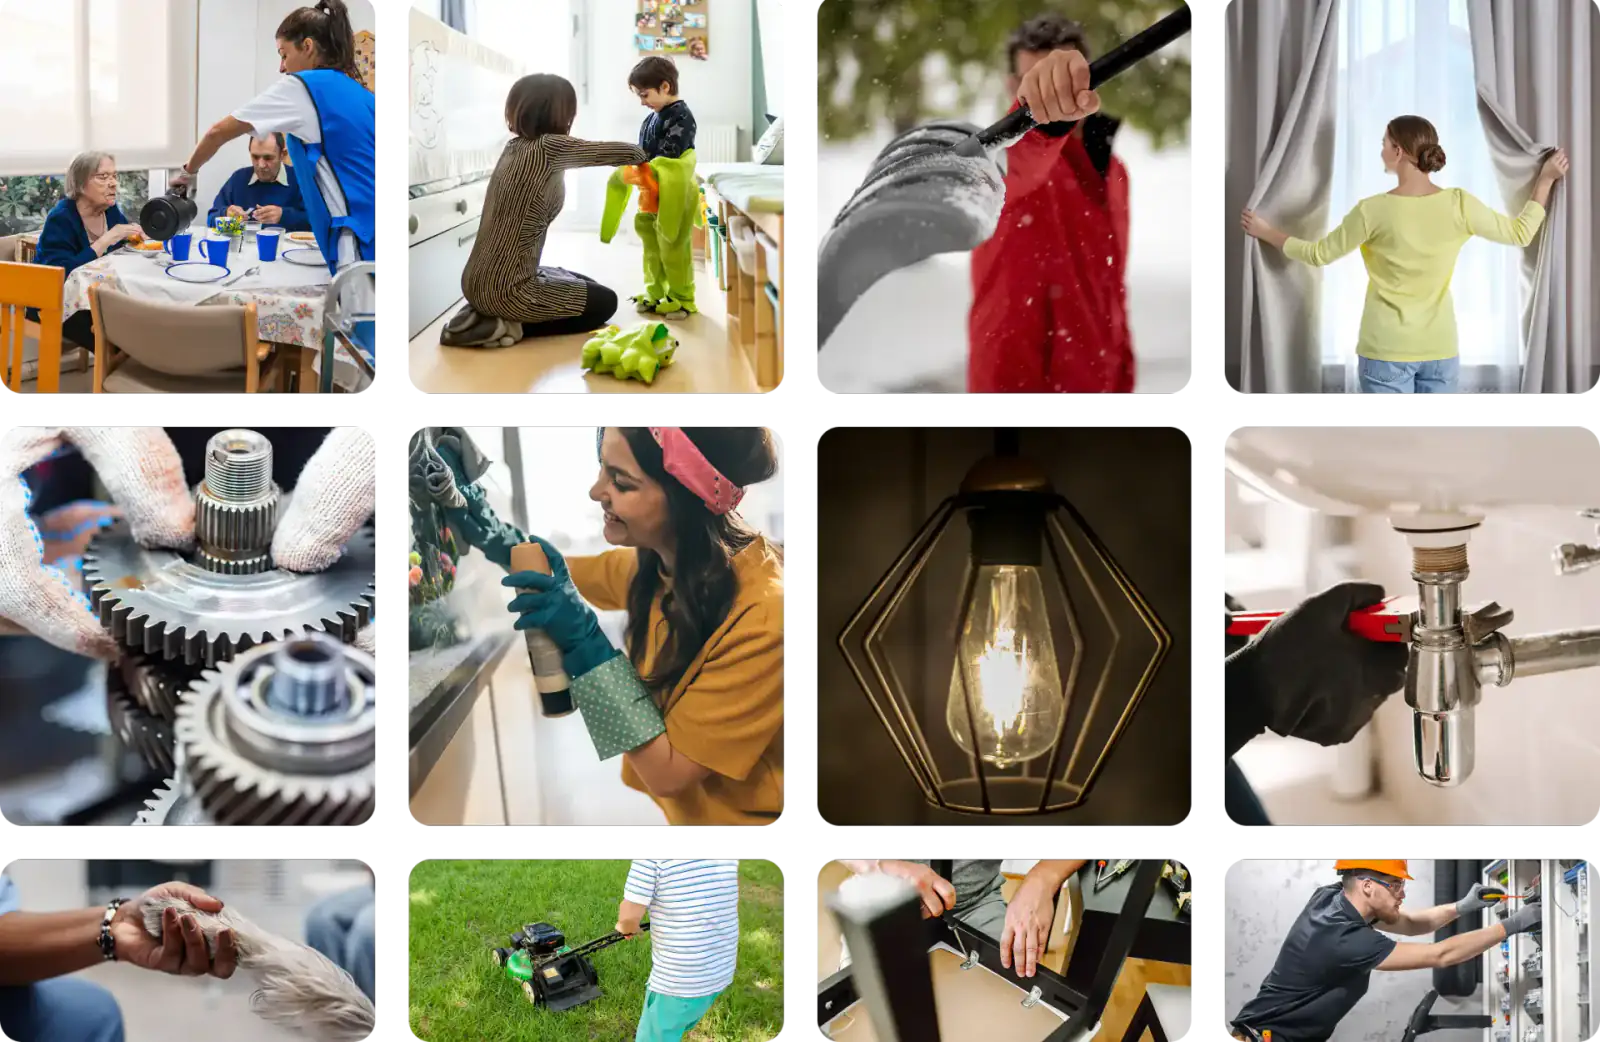
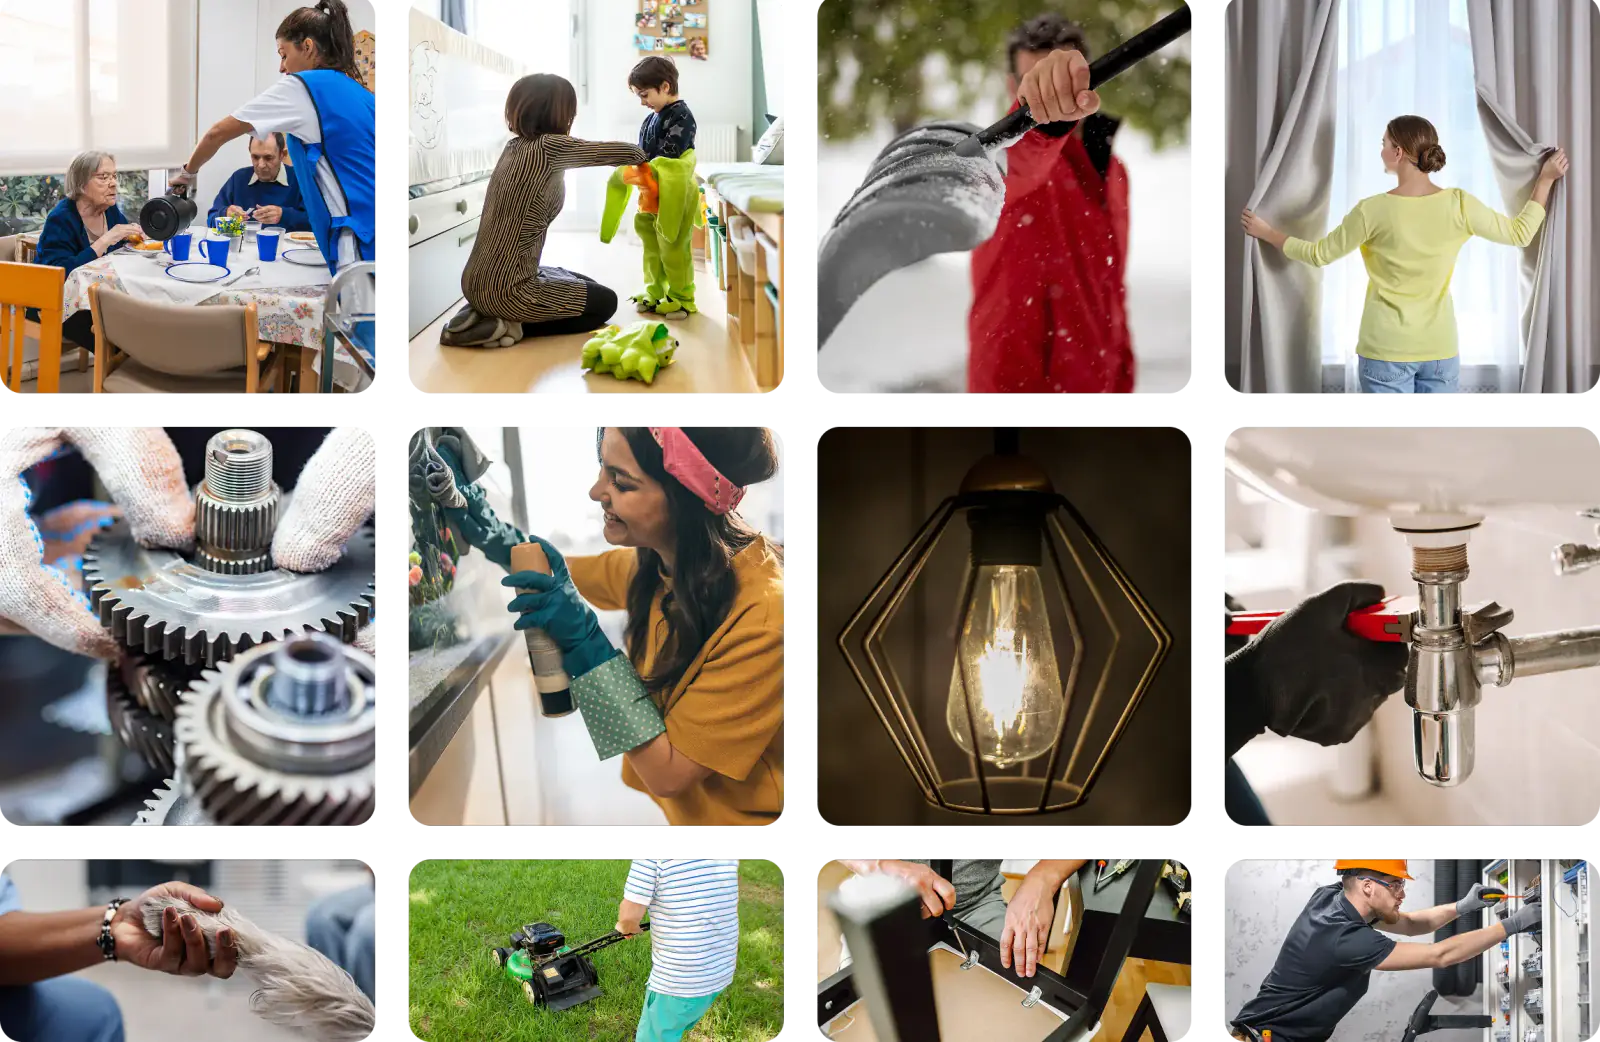
perf: restore hero_bg q=72 quality, dynamic imports for FAQ/Contact
- hero_bg q=65→q=72 (better visual quality)
- FAQ and Contact lazy-loaded (~20 KB initial JS savings)
- optimizePackageImports for lucide-react and radix-ui
- Update favicon set and metadata for Blumu branding

diff --git a/app/page.tsx b/app/page.tsx
@@ -9,12 +9,18 @@ import { Hero } from "@/components/sections/Hero";
 import { Pricing } from "@/components/sections/Pricing";
 import { images } from "@/lib/image-paths";
 
-const FAQ = dynamic(() =>
-  import("@/components/sections/FAQ").then((mod) => mod.FAQ),
+const FAQ = dynamic(
+  () => import("@/components/sections/FAQ").then((mod) => mod.FAQ),
+  {
+    loading: () => <div style={{ minHeight: "700px" }} />,
+  },
 );
 
-const Contact = dynamic(() =>
-  import("@/components/sections/Contact").then((mod) => mod.Contact),
+const Contact = dynamic(
+  () => import("@/components/sections/Contact").then((mod) => mod.Contact),
+  {
+    loading: () => <div style={{ minHeight: "500px" }} />,
+  },
 );
 
 export default function HomePage() {

diff --git a/app/layout.tsx b/app/layout.tsx
@@ -21,6 +21,23 @@ export const metadata: Metadata = {
   title: "Blumu — paslaugų marketplace",
   description:
     "Blumu — Lietuvos paslaugų marketplace. Rask patikimus vykdytojus arba augink savo verslą.",
+  icons: {
+    icon: [
+      { url: "/images/favicon/favicon.ico" },
+      {
+        url: "/images/favicon/favicon-16x16.png",
+        sizes: "16x16",
+        type: "image/png",
+      },
+      {
+        url: "/images/favicon/favicon-32x32.png",
+        sizes: "32x32",
+        type: "image/png",
+      },
+    ],
+    apple: "/images/favicon/apple-touch-icon.png",
+  },
+  manifest: "/images/favicon/site.webmanifest",
 };
 
 export default function RootLayout({

diff --git a/scripts/optimize-images.js b/scripts/optimize-images.js
@@ -5,7 +5,7 @@ const path = require('path');
 // Pagal Next.js Image displayinimo dydžius, plus 2x retina margin
 const targets = [
   // Above-fold (hero) — kritiški
-  { file: 'hero_bg.webp', maxWidth: 1600, quality: 65, effort: 6 },
+  { file: 'hero_bg.webp', maxWidth: 1600, quality: 72, effort: 6 },
   { file: 'hero_mobile.webp', maxWidth: 720, quality: 80, effort: 6 },
   
   // Below-fold

diff --git a/next.config.ts b/next.config.ts
@@ -7,6 +7,9 @@ const nextConfig: NextConfig = {
     imageSizes: [16, 32, 48, 64, 96, 128, 256, 384],
     minimumCacheTTL: 31536000,
   },
+  experimental: {
+    optimizePackageImports: ["lucide-react", "@radix-ui/react-tabs"],
+  },
 };
 
 export default nextConfig;
